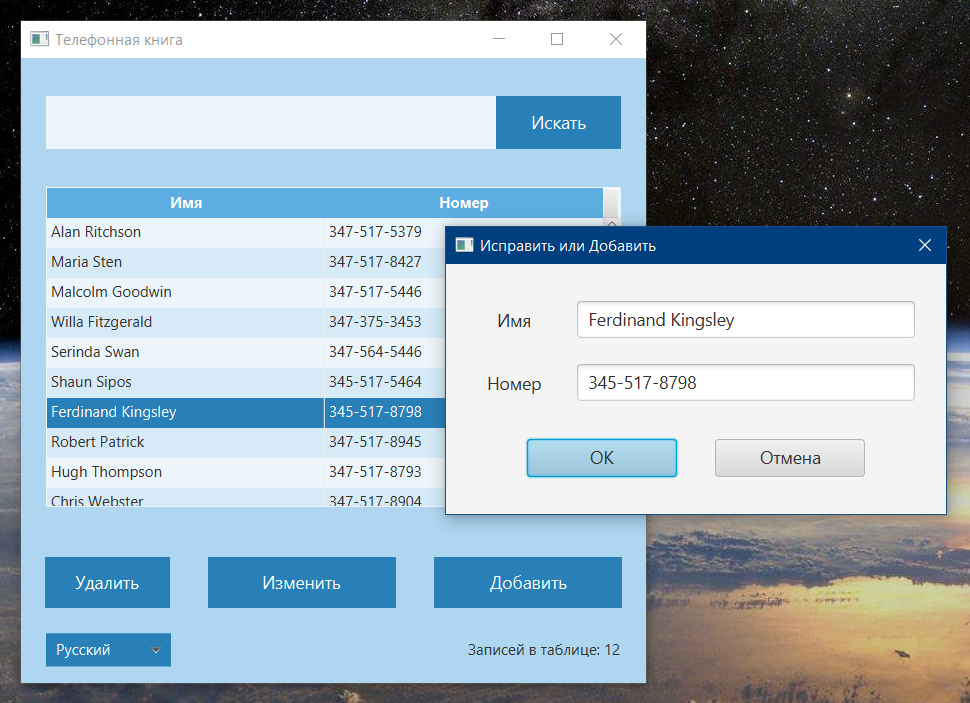
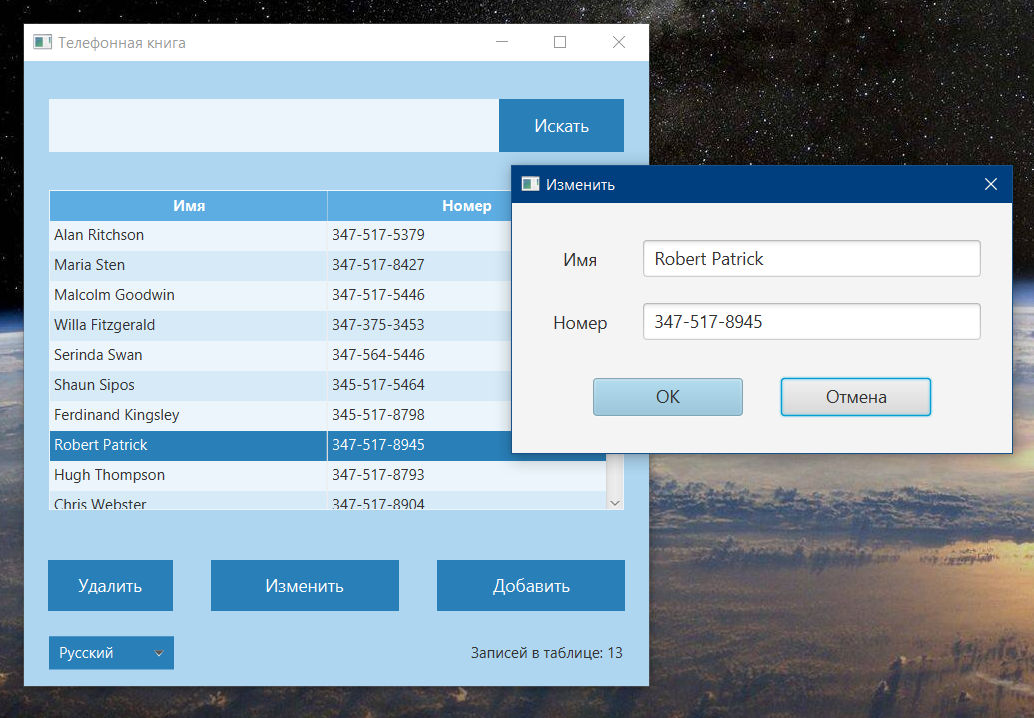
Fix add/edit window title

diff --git a/src/code/controllers/MainController.java b/src/code/controllers/MainController.java
@@ -140,7 +140,7 @@ public class MainController extends Observable implements Initializable {
                 Person person = tableView.getSelectionModel().getSelectedItem();
                 if (person == null) return;
                 editController.setPerson(person);
-                showDialog();
+                showDialog(false);
             }
         });
 
@@ -186,7 +186,7 @@ public class MainController extends Observable implements Initializable {
             case "btnAdd":
                 editController.setPhoneBook(phoneBook);
                 editController.setPerson(new Person());
-                showDialog();
+                showDialog(true);
                 Person person = editController.getPerson();
                 if (person != null) {
                     phoneBook.add(person);
@@ -200,7 +200,7 @@ public class MainController extends Observable implements Initializable {
                 }
                 editController.setPhoneBook(phoneBook);
                 editController.setPerson(selectedPerson);
-                showDialog();
+                showDialog(false);
                 if(editController.isChanged()){
                     tableView.refresh();
                 }
@@ -239,10 +239,9 @@ public class MainController extends Observable implements Initializable {
         labelInfo.setText(resBundle.getString("records.in.table") + ": " + count);
     }
 
-    private void showDialog() {
+    private void showDialog(boolean isAdd) {
         if (editDialogStage == null) {
             editDialogStage = new Stage();
-            editDialogStage.setTitle(resBundle.getString("edit.or.add.new"));
             editDialogStage.setMinHeight(200);
             editDialogStage.setMinWidth(400);
             editDialogStage.setResizable(false);
@@ -251,6 +250,7 @@ public class MainController extends Observable implements Initializable {
             editDialogStage.initOwner(mainStage);
             editDialogStage.initModality(Modality.WINDOW_MODAL);
         }
+        editDialogStage.setTitle(resBundle.getString(isAdd ? "title.add" : "title.edit"));
         editDialogStage.showAndWait();
     }
 
